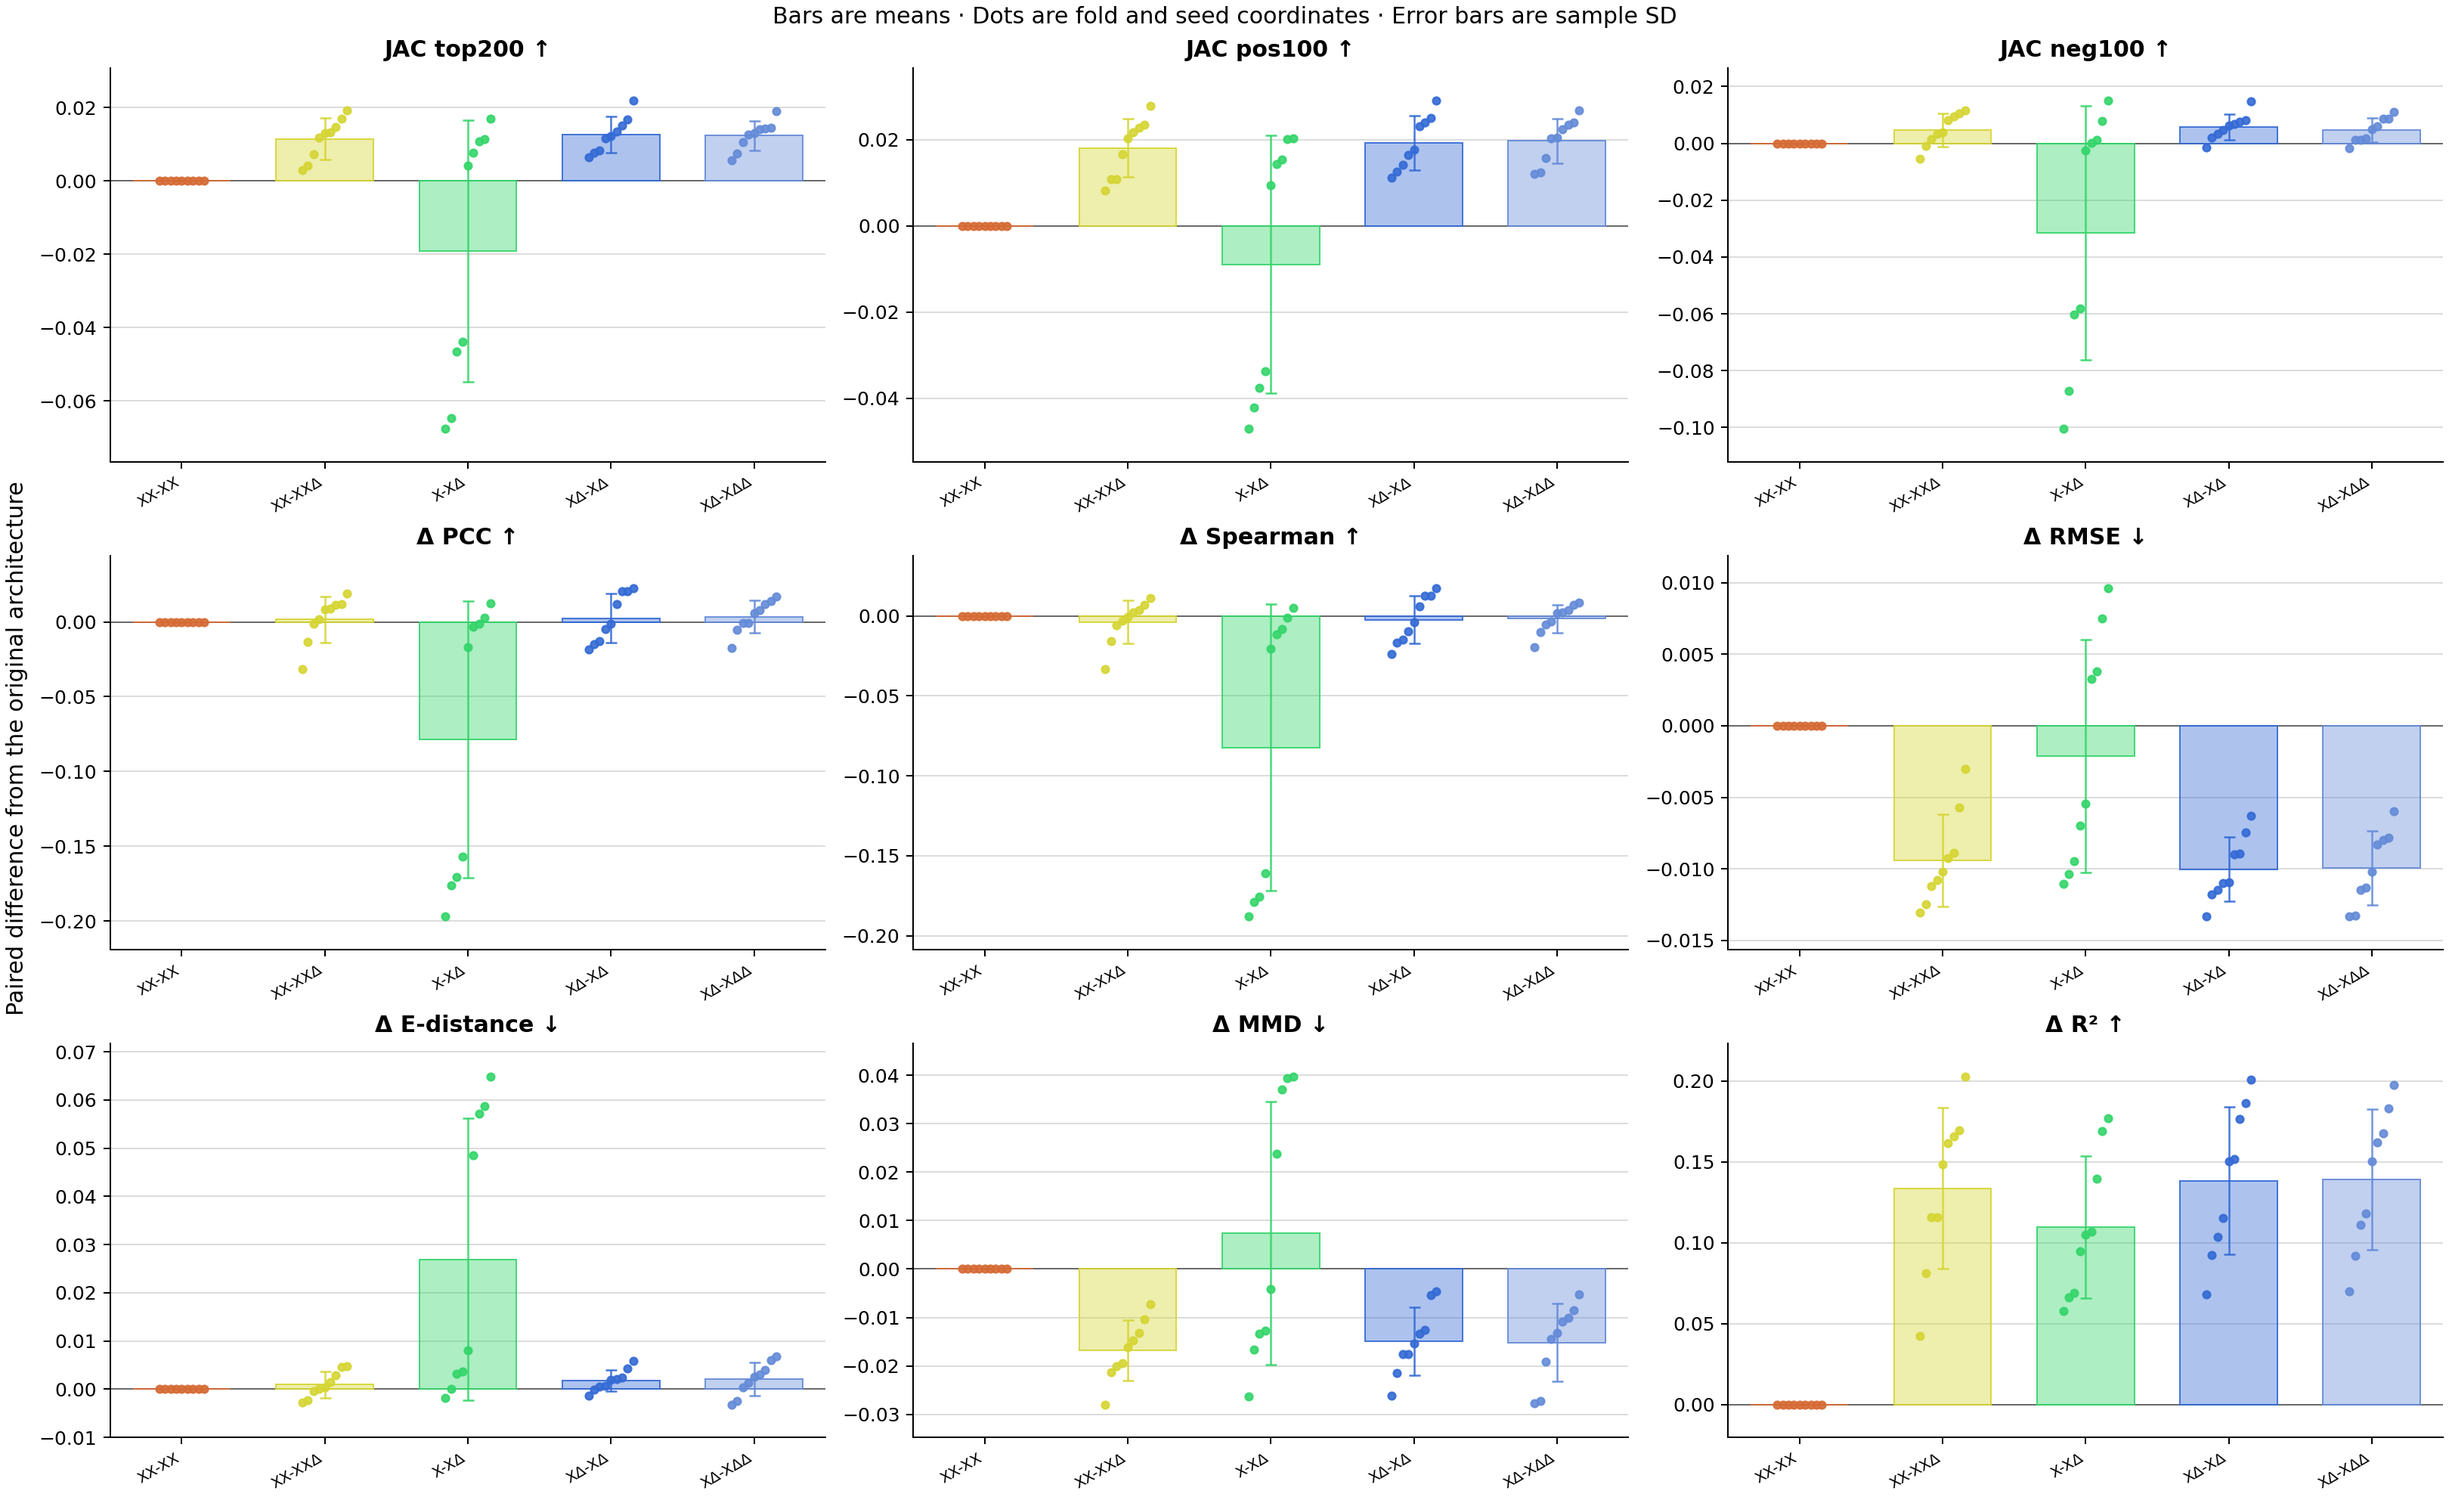
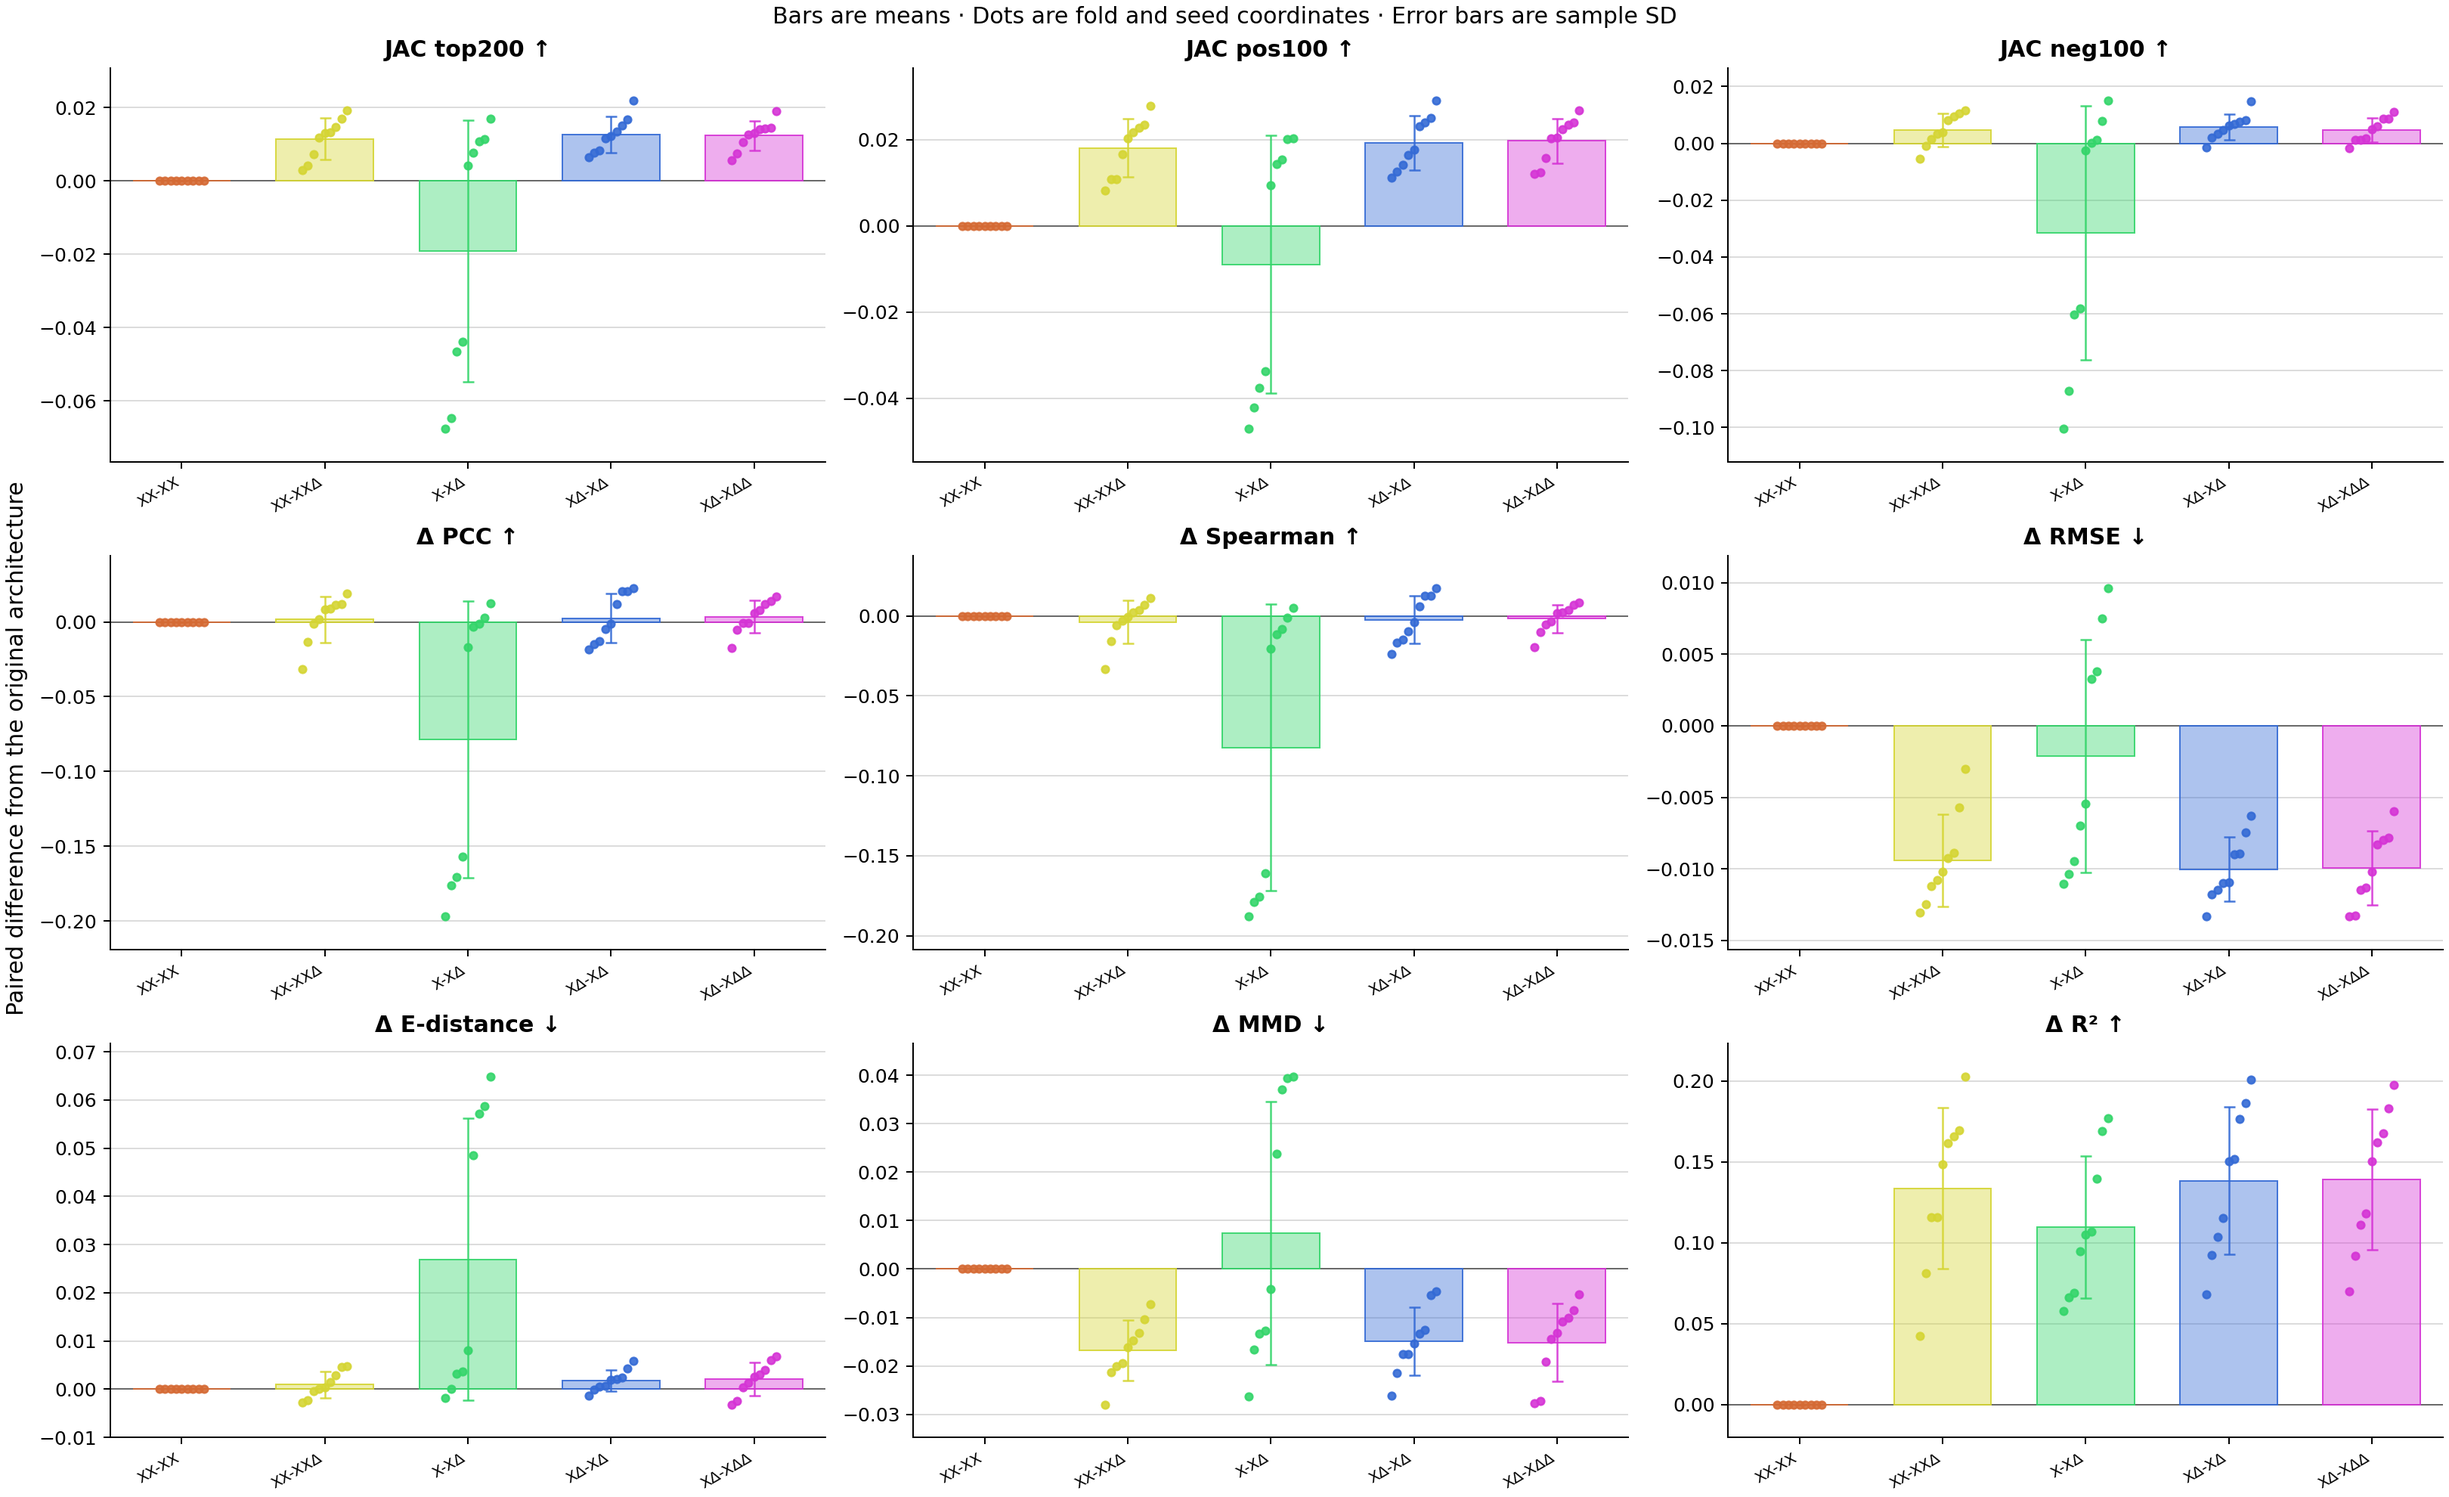
Apply Step 06.4 palette and bounded-run review fixes (#359)

diff --git a/stage2/06_tsg_shape/06.4_round4/figure/script/render_measured.py b/stage2/06_tsg_shape/06.4_round4/figure/script/render_measured.py
@@ -35,7 +35,7 @@ LABELS = {
     "Δ MMD": "Δ MMD",
     "Δ R²": "Δ R²",
 }
-SHAPE_COLORS = dict(zip(SHAPES, ((20, 2), (60, 2), (140, 2), (220, 2), (220, 3)), strict=True))
+SHAPE_HUES = dict(zip(SHAPES, (20, 60, 140, 220, 300), strict=True))
 FIELDS = {"value": "delta-metrics.png", "score_difference": "delta-metrics-paired-difference.png"}
 CURVE_NAME = "learning-curves.png"
 CONTRAST_NAME = "primary-contrasts.png"
@@ -93,8 +93,7 @@ def render_metrics(data, output, smoke):
             means = [summary[shape, metric][field] for shape in SHAPES]
             groups = [[replicates[shape, metric, *key][field] for key in keys] for shape in SHAPES]
             for position, shape, mean, values in zip(positions, SHAPES, means, groups, strict=True):
-                hue, depth = SHAPE_COLORS[shape]
-                plotting.replicate_bar(plot, position, values, hue=hue, depth=depth, width=.68)
+                plotting.replicate_bar(plot, position, values, hue=SHAPE_HUES[shape], depth=2, width=.68)
                 if math.isnan(mean):
                     plot.text(position, .02, "NA", ha="center", fontsize=7, transform=plot.get_xaxis_transform())
             reference = 0 if difference or metric == "Δ R²" else None

diff --git a/stage2/06_tsg_shape/06.4_round4/README.md b/stage2/06_tsg_shape/06.4_round4/README.md
@@ -31,7 +31,9 @@ validation and 24 held-out conditions per fold for two epochs. It uses
 the same fit, prediction, replay and report entry points as the formal
 study. The [gate receipt](log/358-gate.json) records the matrix, objective,
 source provenance, independent rescoring, CSV figure renders and resource
-evidence.
+evidence. To reproduce the figure hashes in that receipt, use renderer
+revision `f387f2c3`. The current renderer uses a distinct hue for each
+arm in the metric figures under [ADR 0093](../../../docs/adr/0093-stage2-shared-plotting-and-in-place-figures.md).
 
 Run from the materialized checkout with the `arc` environment active.
 Start the [coordinator sampler](../06.1_round1/execution/sample_resources.py)
@@ -40,6 +42,7 @@ Check for 12 GiB of available WSL memory before each capped command. Use
 the commands below with an unused work directory.
 
 ```bash
+set -e
 STEP="$PWD/stage2/06_tsg_shape/06.4_round4"
 mkdir -p "$PWD/tmp"
 WORK=$(mktemp -d "$PWD/tmp/tsg-measured-encoder-smoke.XXXXXX")
@@ -55,6 +58,11 @@ capped_round4() {
 python "$STEP/../06.1_round1/execution/sample_resources.py" \
   --output "$WORK/coordinator-resources.jsonl" &
 SAMPLER_PID=$!
+stop_sampler() {
+  kill -TERM "$SAMPLER_PID" 2>/dev/null || true
+  wait "$SAMPLER_PID"
+}
+trap 'stop_sampler || true' EXIT
 until [ -s "$WORK/coordinator-resources.jsonl" ]; do
   kill -0 "$SAMPLER_PID" || exit 1
   sleep 1
@@ -74,8 +82,8 @@ python "$STEP/execution/audit_measured_figures.py" build --smoke \
   --scratch "$WORK/scratch"
 capped_round4 env TSG_MEASURED_TEST_DEVICE=cuda python -m unittest discover \
   -s "$STEP/execution/tests" -p 'test_measured_model.py'
-kill -TERM "$SAMPLER_PID"
-wait "$SAMPLER_PID"
+stop_sampler
+trap - EXIT
 python "$STEP/execution/audit_measured.py" resources --smoke \
   --matrix-audit "$WORK/matrix-audit" --coordinator "$WORK/coordinator-resources.jsonl" \
   --coverage-output "$WORK/coordinator-coverage.jsonl"
